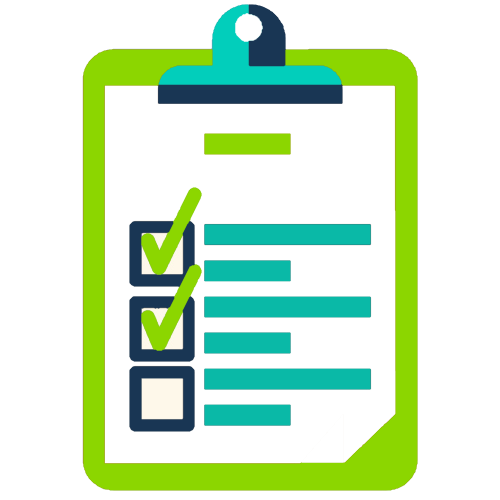
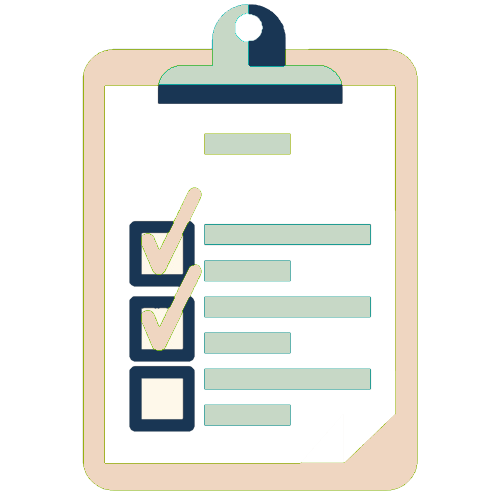
Changed colour scheme and made some CSS changes to enhance layout

diff --git a/public/scripts/functions.js b/public/scripts/functions.js
@@ -82,8 +82,9 @@ function loadFilters() {
 function loadNavBar(response) {
   const {username} = response['0'];
   var $navBar = `<nav id="nav-bar">
-                  <span class="header">SmarToDo Hello ${username}!</span>
+                  <span class="header">SmarToDo</span>
                   <img class="logo" src="images/todolist.png">
+                  <span class="header">Hello, ${username}! </span>
                   <span class="nav-button nav-list">
                     <i class="fa fa-list-ol" aria-hidden="true"></i>
                     My List
@@ -114,7 +115,6 @@ function renderRegister() {
                         <div class="row">
                           <div class="col-md-4 col-md-offset-4 col-xs-12">
                             <div class="register-box">
-                              <h2>Registration</h2>
                               <img src="images/todolist.png""><br><br>
                               <form class="register-form">
                                 <input type="text" name="username" placeholder="Username" /><br><br>
@@ -137,10 +137,10 @@ function renderProfile(response) {
                         <div class="row">
                           <div class="col-md-4 col-md-offset-4 col-xs-12">
                             <div class="profile-box">
-                              <h2>User Profile</h2>
+                              <h2 style="color:white;">User Profile</h2>
                               <img class="logo-page" src="images/todolist.png""><br><br>
-                                <span> Email: ${email} </span><br><br>
-                                <span> Username: ${username} </span><br><br>
+                                <span style="color:white;"> Email: ${email} </span><br><br>
+                                <span style="color:white;"> Username: ${username} </span><br><br><br>
                               <a class="switch-to-update-profile">Change username and password?</a>
                             </div>
                           </div>
@@ -167,7 +167,6 @@ function renderLogin() {
                       <div class="row">
                         <div class="col-md-4 col-md-offset-4 col-xs-12">
                           <div class="login-box">
-                            <h2>Log In</h2>
                             <img src="images/todolist.png"">
                             <form class="login-form"><br>
                               <input type="email" name="email" placeholder="Email" /><br><br>

diff --git a/public/scripts/search.js b/public/scripts/search.js
@@ -59,7 +59,7 @@ function readProductList(list) {
   //   return;
   // }
   let $searchCardBar = `
-                       <div style="background-color:gray">
+                       <div style="background-color:#EEDAC1">
                         <span> Top 2 items from Amazon</span>
                        </div>
                        `
@@ -127,7 +127,7 @@ function readBookList(list) {
     return;
   }
   $('.auto-complete').empty()
-  let $searchCardBar = `<div style="background-color:gray">
+  let $searchCardBar = `<div style="background-color:#EEDAC1">
                         <span> Top 2 items from Google Books</span>
                        </div>
                        `
@@ -234,7 +234,7 @@ function readMovieList(list){
   if (!list.results[0]) {
     return;
   }
-  let $searchCardBar = `<div style="background-color:gray">
+  let $searchCardBar = `<div style="background-color:#EEDAC1">
                         <span> Top 2 items from TMDB</span>
                        </div>
                        `
@@ -296,7 +296,7 @@ function readPlaceList(list) {
   if (!list.businesses[0]) {
     return;
   }
-  let $searchCardBar = `<div style="background-color:gray">
+  let $searchCardBar = `<div style="background-color:#EEDAC1">
                         <span> Top 2 items from Yelp</span>
                         </div>
                        `

diff --git a/public/styles/nav.css b/public/styles/nav.css
@@ -1,5 +1,5 @@
 #nav-bar {
-  background: #5fbdbd;
+  background: #CCCBC6;
   z-index: 100000;
   width: 100%;
   height: 80px;
@@ -7,22 +7,23 @@
   overflow: hidden;
   position: fixed;
   font-size: 20px;
-  border-bottom: 3px solid #8FD529;
+  border-bottom: 3px solid #EEDAC1;
 }
 
 
 .logo {
   height: 96px;
-  margin: 10px;
-  float: left;
+  margin: 0px;
+  /*float: left;*/
 }
 
 #nav-bar .header {
-  line-height: 80px;
+  margin-left: 10px;
+  line-height: 0px;
 }
 
 .nav-button {
-  margin:25px 5px;
+  margin:31px 5px 5px;
   float: right;
   cursor: pointer;
 }

diff --git a/public/styles/search.css b/public/styles/search.css
@@ -6,7 +6,7 @@
 }
 
 .search-bar{
-  border: 2px solid #8FD529;
+  border: 2px solid #EEDAC1;
   border-radius: 2px;
 }
 .search-container input{
@@ -18,8 +18,9 @@
   width: 75%;
   border-radius: 5px;
   margin:auto;
-  background-color: #5FBDBD;
-  border: 2px solid #8FD529;
+  background-color: #CCCBC6;
+  border-right: 2px solid #EEDAC1;
+  border-left: 2px solid #EEDAC1;
 }
 
 .auto-complete-item {
@@ -38,7 +39,7 @@
   height: 100%;
   width: 100px;
   border-radius: 5px;
-  border: 1px solid #8FD529;
+  border: 1px solid #EEDAC1;
 }
 
 .search-card span{

diff --git a/public/styles/layout.css b/public/styles/layout.css
@@ -1,5 +1,6 @@
 body {
-  background-color: #5FBDBD;
+  background-color: #3D3D3D;
+  font-family: 'Maven Pro', sans-serif;
 }
 
 main {
@@ -20,6 +21,7 @@ main {
   /*border: 2px solid black;*/
   /*background-color: yellow;*/
   /*margin: 4px;*/
+  border-radius: 10px;
   height:360px;
   width:335px;
 }
@@ -52,7 +54,7 @@ main {
     height: 100%;
     width: 100%;
     opacity: 0;
-    background: rgba(0,0,0,.7);
+    background: rgba(61,61,61,.85);
     -moz-transition: all 1s;
     -webkit-transition: all 1s;
     transition: all 1s;

diff --git a/public/index.html b/public/index.html
@@ -9,6 +9,8 @@
     <!-- Latest compiled and minified CSS -->
     <link rel="stylesheet" href="https://maxcdn.bootstrapcdn.com/bootstrap/3.3.7/css/bootstrap.min.css" integrity="sha384-BVYiiSIFeK1dGmJRAkycuHAHRg32OmUcww7on3RYdg4Va+PmSTsz/K68vbdEjh4u" crossorigin="anonymous">
 
+    <link href="https://fonts.googleapis.com/css?family=Maven+Pro" rel="stylesheet">
+
     <!-- App CSS -->
     <link rel="stylesheet" href="styles/layout.css" type="text/css" />
     <link rel="stylesheet" href="styles/nav.css" type="text/css" />

diff --git a/public/styles/login.css b/public/styles/login.css
@@ -24,13 +24,13 @@
 
 input[type=email], input[type=password], input[type=text] {
   border-radius: 5px;
-  border: 5px solid #8FD529;
+  border: 5px solid #EEDAC1;
 }
 
 
 input[type=submit] {
-  background-color: #8FD529;
+  background-color: #EEDAC1;
   border-radius: 5px;
-  border: 1px solid #8FD529;
+  border: 1px solid #EEDAC1;
 }
 

diff --git a/public/styles/filters.css b/public/styles/filters.css
@@ -1,8 +1,8 @@
 .filter-button {
   margin: 1%;
-  background-color: #8FD529;
+  background-color: #EEDAC1;
   border-radius: 5px;
-  border: 1px solid #8FD529
+  border: 1px solid #EEDAC1;
 }
 
 .filter-inner {

diff --git a/public/styles/display-box.css b/public/styles/display-box.css
@@ -1,5 +1,5 @@
 .display-box {
-  border: 4px solid #8FD529;
+  border: 4px solid #EEDAC1;
   border-radius: 2px;
   display: flex;
   flex-direction: row;
